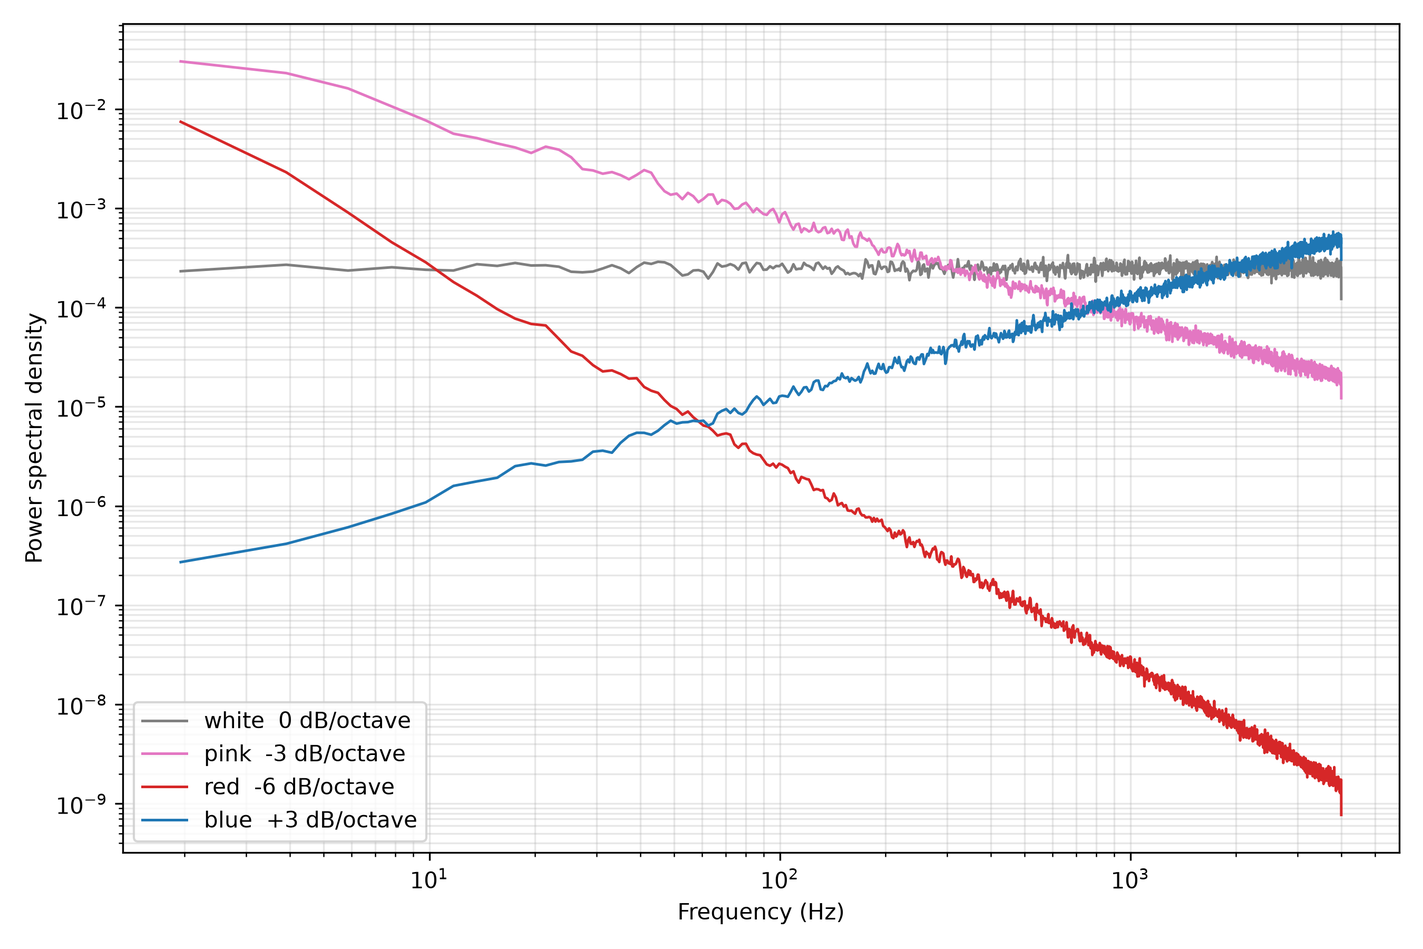
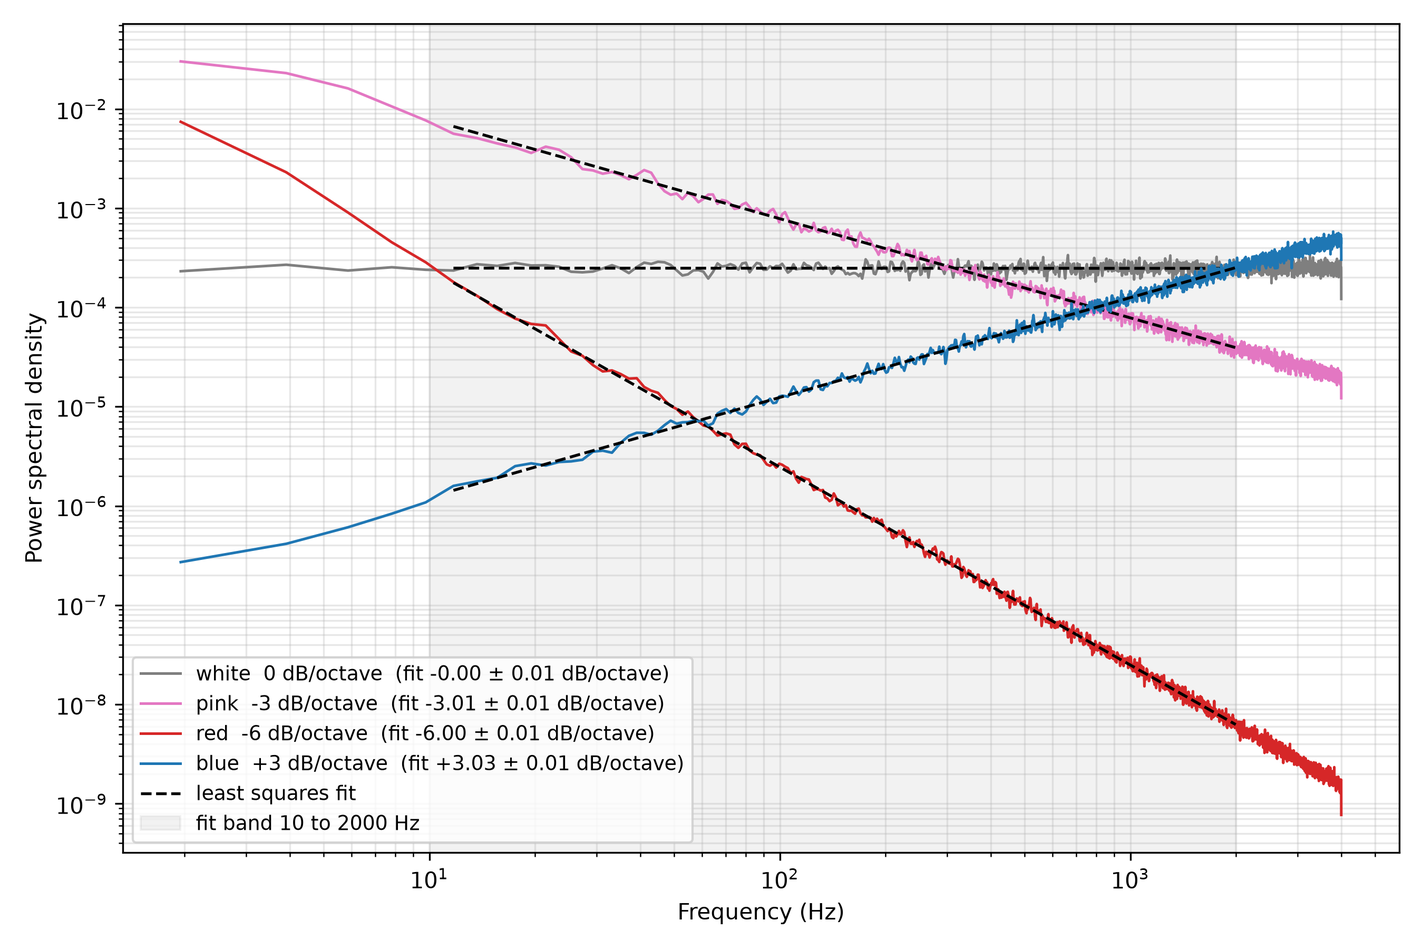
Add slope range to Table 1 and fit the density slope in Fig 2
Table 1 carried one nominal slope per color with no room for a measured
value that lands between two colors. Add a Slope range column that splits
the 3 dB/octave spacing at its midpoint, and state which of the four
values a measurement standard actually backs.

Fit every density over a frequency band on log-log axes, draw the fitted
line on Fig 2, and report the fitted slope with its standard error in the
legend. Write the fits next to the figures so the numbers can be read
back as values instead of off the picture. Label the Fig 1 panels with
the slope as well, so the waveform and the density carry the same unit.

Define dB and octave in Appendix A, and add Appendix B for the difference
between the power and the voltage form of the decibel.

Claude-Session: https://claude.ai/code/session_01Q6gebKnkh6fvcJxvUaxQ1o

diff --git a/EDA/Noise/noise-color-figures.py b/EDA/Noise/noise-color-figures.py
@@ -1,11 +1,13 @@
 """Generate the waveform, power spectral density and point pattern figures for the noise color taxonomy.
 
 Changelog:
+    0.2.0.2026.8.22 Fit the density of every color on log-log axes and report the fitted slope in dB per octave.
     0.1.0.2026.8.21 Add the point pattern figure that contrasts white and blue noise sampling.
     0.0.0.2026.8.20 Initial release.
 """
 
 import argparse
+import csv
 import enum
 import pathlib
 import sys
@@ -19,7 +21,7 @@ from scipy.spatial import distance
 from tqdm import tqdm
 
 __author__ = 'yRocket'
-__version__ = "0.1.0.2026.8.21"  # Semantic Versioning: Major.Minor.Patch.Date(YYYY.M.D)
+__version__ = "0.2.0.2026.8.22"  # Semantic Versioning: Major.Minor.Patch.Date(YYYY.M.D)
 
 matplotlib.use('Agg')
 
@@ -51,6 +53,14 @@ PLOT_COLOR: dict = {
 
 PANEL_LABEL: list = ['(a)', '(b)', '(c)', '(d)']
 
+# Decibels the density moves when the frequency doubles, for an exponent of one. It is 10 * log10(2).
+DB_PER_OCTAVE: float = 10.0 * np.log10(2.0)
+
+# Header of the file that keeps the fitted slopes, so the numbers quoted elsewhere can be recomputed.
+FIT_FIELD: list = ['color', 'nominal_exponent', 'fitted_exponent', 'nominal_slope_db_per_octave',
+                   'fitted_slope_db_per_octave', 'slope_stderr_db_per_octave', 'fit_low_hz', 'fit_high_hz',
+                   'n_fit_points']
+
 
 def generate_noise(color: NoiseColor = None, n_samples: int = None, rng: np.random.Generator = None) -> np.ndarray:
     """Shape white gaussian noise in the frequency domain so that its density follows f ** beta.
@@ -69,6 +79,61 @@ def generate_noise(color: NoiseColor = None, n_samples: int = None, rng: np.rand
     return shaped / np.std(shaped)
 
 
+def format_slope(slope_db: float = None) -> str:
+    """Write a slope in dB per octave, keeping the sign only when the slope is not flat."""
+    return '0 dB/octave' if round(slope_db) == 0 else f"{slope_db:+.0f} dB/octave"
+
+
+def fit_psd_slope(frequency: np.ndarray = None, density: np.ndarray = None, fit_low: float = None,
+                  fit_high: float = None) -> dict:
+    """Fit a straight line to the density on log-log axes and return the slope with its standard error.
+
+    A power law is a straight line once both axes are logarithmic, so the exponent is the slope of that line and
+    the slope in dB per octave is the exponent times 10 * log10(2). The fit runs over the band between fit_low and
+    fit_high because the lowest bins average too few segments and the highest bins sit on the filter edge.
+
+    Returns a dict with the fitted exponent, the slope and its standard error in dB per octave, the frequency of
+    the fitted points and the fitted density, so the caller can both quote and draw the fit.
+    """
+    band = (frequency >= fit_low) & (frequency <= fit_high)
+    if band.sum() < 3:
+        raise ValueError(f"fit band holds {band.sum()} points, which is too few to fit a line and its error: "
+                         f"{fit_low=}, {fit_high=}")
+
+    log_frequency = np.log10(frequency[band])
+    log_density = np.log10(density[band])
+    coefficient, covariance = np.polyfit(log_frequency, log_density, deg=1, cov=True)
+
+    return {
+        'exponent': float(coefficient[0]),
+        'slope_db': float(coefficient[0]) * DB_PER_OCTAVE,
+        'stderr_db': float(np.sqrt(covariance[0, 0])) * DB_PER_OCTAVE,
+        'frequency': frequency[band],
+        'density': 10.0 ** np.polyval(coefficient, log_frequency),
+        'n_points': int(band.sum()),
+    }
+
+
+def write_slope_fits(fits: dict = None, fit_low: float = None, fit_high: float = None,
+                     out_path: pathlib.Path = None) -> None:
+    """Write one row per color so that every slope drawn in the figure can be read back as a number."""
+    with out_path.open(mode='w', newline='', encoding='utf-8') as handle:
+        writer = csv.DictWriter(handle, fieldnames=FIT_FIELD)
+        writer.writeheader()
+        for color, fit in fits.items():
+            writer.writerow({
+                'color': color.value,
+                'nominal_exponent': f"{PSD_EXPONENT[color]:.1f}",
+                'fitted_exponent': f"{fit['exponent']:.4f}",
+                'nominal_slope_db_per_octave': f"{PSD_EXPONENT[color] * DB_PER_OCTAVE:.4f}",
+                'fitted_slope_db_per_octave': f"{fit['slope_db']:.4f}",
+                'slope_stderr_db_per_octave': f"{fit['stderr_db']:.4f}",
+                'fit_low_hz': f"{fit_low:.4f}",
+                'fit_high_hz': f"{fit_high:.4f}",
+                'n_fit_points': fit['n_points'],
+            })
+
+
 def plot_waveforms(signals: dict = None, sample_rate: float = None, out_path: pathlib.Path = None,
                    dpi: int = None) -> None:
     """Draw one panel per color, sharing the time and amplitude axes so the panels can be compared directly."""
@@ -78,7 +143,8 @@ def plot_waveforms(signals: dict = None, sample_rate: float = None, out_path: pa
         time = np.arange(wave.size) / sample_rate
         axis.plot(time, wave, color=PLOT_COLOR[color], linewidth=0.9)
         axis.set_ylabel('Amplitude')
-        axis.set_title(f"{label} {color.value} noise", loc='left', fontsize=10)
+        slope_text = format_slope(slope_db=PSD_EXPONENT[color] * DB_PER_OCTAVE)
+        axis.set_title(f"{label} {color.value} noise  |  {slope_text}", loc='left', fontsize=10)
         axis.grid(visible=True, alpha=0.3)
 
     axes[-1].set_xlabel('Time (s)')
@@ -87,27 +153,41 @@ def plot_waveforms(signals: dict = None, sample_rate: float = None, out_path: pa
     plt.close(fig)
 
 
-def plot_psd(signals: dict = None, sample_rate: float = None, out_path: pathlib.Path = None,
-             dpi: int = None) -> None:
-    """Draw the Welch density of every color on log-log axes, where a power law becomes a straight line."""
+def plot_psd(signals: dict = None, sample_rate: float = None, n_per_segment: int = None, fit_low: float = None,
+             fit_high: float = None, out_path: pathlib.Path = None, dpi: int = None) -> dict:
+    """Draw the Welch density of every color on log-log axes, where a power law becomes a straight line.
+
+    Every density is fitted over the band between fit_low and fit_high and the fitted line is drawn on top of it,
+    so the slope the eye reads off the curve can be compared with the slope the fit returns. The legend carries
+    the nominal slope of the color and the fitted slope with its standard error. Returns the fit of every color.
+    """
     fig, axis = plt.subplots(nrows=1, ncols=1, figsize=(9.0, 6.0))
 
-    for color, wave in signals.items():
-        frequency, density = signal.welch(wave, fs=sample_rate, nperseg=4096)
+    fits: dict = {}
+    last_index = len(signals) - 1
+    for index, (color, wave) in enumerate(signals.items()):
+        frequency, density = signal.welch(wave, fs=sample_rate, nperseg=n_per_segment)
         keep = frequency > 0
-        slope_db = 10.0 * np.log10(2.0) * PSD_EXPONENT[color]
-        sign = '' if round(slope_db) == 0 else f"{slope_db:+.0f}"
-        slope_text = '0 dB/octave' if round(slope_db) == 0 else f"{sign} dB/octave"
-        axis.loglog(frequency[keep], density[keep], color=PLOT_COLOR[color], linewidth=1.2,
-                    label=f"{color.value}  {slope_text}")
+        fits[color] = fit_psd_slope(frequency=frequency[keep], density=density[keep], fit_low=fit_low,
+                                    fit_high=fit_high)
 
+        nominal_text = format_slope(slope_db=PSD_EXPONENT[color] * DB_PER_OCTAVE)
+        fitted_text = f"fit {fits[color]['slope_db']:+.2f} ± {fits[color]['stderr_db']:.2f} dB/octave"
+        axis.loglog(frequency[keep], density[keep], color=PLOT_COLOR[color], linewidth=1.2,
+                    label=f"{color.value}  {nominal_text}  ({fitted_text})")
+        axis.loglog(fits[color]['frequency'], fits[color]['density'], color='black', linestyle='--',
+                    linewidth=1.3, label='least squares fit' if index == last_index else '_nolegend_')
+
+    axis.axvspan(fit_low, fit_high, color='black', alpha=0.05, label=f"fit band {fit_low:g} to {fit_high:g} Hz")
     axis.set_xlabel('Frequency (Hz)')
     axis.set_ylabel('Power spectral density')
     axis.grid(visible=True, which='both', alpha=0.3)
-    axis.legend(loc='lower left')
+    axis.legend(loc='lower left', fontsize=9)
     fig.tight_layout()
     fig.savefig(out_path, dpi=dpi)
     plt.close(fig)
+
+    return fits
 
 
 def generate_uniform_points(n_points: int = None, rng: np.random.Generator = None) -> np.ndarray:
@@ -152,13 +232,17 @@ def plot_point_patterns(patterns: dict = None, out_path: pathlib.Path = None, dp
 
 
 def build_figures(out_folder: pathlib.Path = None, n_samples: int = None, n_wave_samples: int = None,
-                  sample_rate: float = None, n_points: int = None, n_candidates: int = None,
+                  sample_rate: float = None, n_per_segment: int = None, fit_low: float = None,
+                  fit_high: float = None, n_points: int = None, n_candidates: int = None,
                   seed: int = None, dpi: int = None) -> None:
     """Generate the signals for both figures and write the figures into the output folder.
 
     The two figures need different signal lengths. The density needs a long signal so that Welch can average many
     segments, while the waveform needs a short one. Red noise holds most of its energy at the lowest frequency the
     signal reaches, so a short window cut out of a long signal is a nearly flat line and shows no character.
+
+    The fitted slopes are written next to the figures so that the numbers drawn in the density figure can be read
+    back as values instead of being copied off the picture.
     """
     rng = np.random.default_rng(seed)
 
@@ -176,8 +260,10 @@ def build_figures(out_folder: pathlib.Path = None, n_samples: int = None, n_wave
     }
 
     plot_waveforms(signals=wave_signals, sample_rate=sample_rate, out_path=out_folder / 'fig1_waveform.png', dpi=dpi)
-    plot_psd(signals=psd_signals, sample_rate=sample_rate, out_path=out_folder / 'fig2_psd.png', dpi=dpi)
+    fits = plot_psd(signals=psd_signals, sample_rate=sample_rate, n_per_segment=n_per_segment, fit_low=fit_low,
+                    fit_high=fit_high, out_path=out_folder / 'fig2_psd.png', dpi=dpi)
     plot_point_patterns(patterns=patterns, out_path=out_folder / 'fig3_point_pattern.png', dpi=dpi)
+    write_slope_fits(fits=fits, fit_low=fit_low, fit_high=fit_high, out_path=out_folder / 'fig2_psd_slope_fit.csv')
 
 
 def parse_args() -> argparse.Namespace:
@@ -191,6 +277,13 @@ def parse_args() -> argparse.Namespace:
                         help="number of samples in the signal the waveform figure draws")
     parser.add_argument('--sample-rate', type=float, default=8000.0,
                         help="sample rate in Hz used for the time and frequency axes")
+    parser.add_argument('--n-per-segment', type=int, default=4096,
+                        help="samples per Welch segment; longer resolves low frequencies, shorter averages more")
+    parser.add_argument('--fit-low-hz', type=float, default=10.0,
+                        help="lower edge of the band the density is fitted over; below it Welch averages too few "
+                             "segments")
+    parser.add_argument('--fit-high-hz', type=float, default=2000.0,
+                        help="upper edge of the band the density is fitted over; keep it below the Nyquist edge")
     parser.add_argument('--n-points', type=int, default=800,
                         help="number of points drawn in each panel of the point pattern figure")
     parser.add_argument('--n-candidates', type=int, default=12,
@@ -212,10 +305,19 @@ def parse_args() -> argparse.Namespace:
     out_folder.mkdir(parents=True, exist_ok=True)
     args.out_folder = out_folder
 
-    if args.n_samples < 4096:
-        parser.error(f"--n-samples must be at least 4096 to fill one Welch segment: {args.n_samples}")
     if args.sample_rate <= 0.0:
         parser.error(f"--sample-rate must be positive: {args.sample_rate}")
+    if args.n_per_segment < 256:
+        parser.error(f"--n-per-segment must be at least 256 to resolve a slope: {args.n_per_segment}")
+    if args.n_samples < args.n_per_segment:
+        parser.error(f"--n-samples must fill at least one Welch segment: {args.n_samples} < {args.n_per_segment}")
+    if args.fit_low_hz <= 0.0:
+        parser.error(f"--fit-low-hz must be positive, since a log axis has no zero: {args.fit_low_hz}")
+    if args.fit_high_hz <= args.fit_low_hz:
+        parser.error(f"--fit-high-hz must be above --fit-low-hz: {args.fit_high_hz} <= {args.fit_low_hz}")
+    if args.fit_high_hz > args.sample_rate / 2.0:
+        parser.error(f"--fit-high-hz must stay at or below the Nyquist frequency {args.sample_rate / 2.0}: "
+                     f"{args.fit_high_hz}")
     if args.dpi <= 0:
         parser.error(f"--dpi must be positive: {args.dpi}")
     if args.n_wave_samples < 16:
@@ -231,5 +333,6 @@ def parse_args() -> argparse.Namespace:
 if __name__ == '__main__':
     cli = parse_args()
     build_figures(out_folder=cli.out_folder, n_samples=cli.n_samples, n_wave_samples=cli.n_wave_samples,
-                  sample_rate=cli.sample_rate, n_points=cli.n_points, n_candidates=cli.n_candidates,
+                  sample_rate=cli.sample_rate, n_per_segment=cli.n_per_segment, fit_low=cli.fit_low_hz,
+                  fit_high=cli.fit_high_hz, n_points=cli.n_points, n_candidates=cli.n_candidates,
                   seed=cli.seed, dpi=cli.dpi)

diff --git a/EDA/Noise/noise-color-taxonomy.md b/EDA/Noise/noise-color-taxonomy.md
@@ -1,5 +1,5 @@
 # Noise Color Taxonomy
-Rev. 2 | Created: 2026-08-20 | Updated: 2026-08-21 15:07 CDT
+Rev. 3 | Created: 2026-08-20 | Updated: 2026-08-22 04:52 UTC
 
 노이즈에 붙은 색 이름은 주파수 대역에 에너지가 어떻게 나뉘어 있는지를 가리킨다. 저주파에 에너지가 몰릴수록 붉은 계열로 부르고, 고주파에 몰릴수록 푸른 계열로 부른다. 이 문서는 네 가지 색을 파형, 기울기, 청각, 공간 패턴, 활용의 순서로 정리한다.
 
@@ -11,7 +11,7 @@ Rev. 2 | Created: 2026-08-20 | Updated: 2026-08-21 15:07 CDT
 
 Fig 1. Waveform of each noise color
 
-Red 는 값이 천천히 오르내려 선이 매끄럽고, Blue 는 이웃한 표본끼리 값이 자주 뒤집혀 선이 가장 촘촘하다. White 는 그 둘 사이에 있고, Pink 는 White 같은 잔 움직임 위에 Red 같은 느린 흔들림이 얹혀 있다. 네 신호는 모두 표준편차를 1 로 맞추었으므로, 다른 것은 세로 폭이 아니라 값이 변하는 빠르기이다.
+Red 는 값이 천천히 오르내려 선이 매끄럽고, Blue 는 이웃한 표본끼리 값이 자주 뒤집혀 선이 가장 촘촘하다. White 는 그 둘 사이에 있고, Pink 는 White 같은 잔 움직임 위에 Red 같은 느린 흔들림이 얹혀 있다. 네 신호는 모두 표준편차를 1 로 맞추었으므로, 다른 것은 세로 폭이 아니라 값이 변하는 빠르기이다. 각 panel 제목에 함께 적은 기울기가 그 빠르기를 한 수로 줄인 값이며, 그 수가 어디서 나오는지는 2 절에서 다룬다.
 
 ## 2. Spectral Slope
 
@@ -19,26 +19,30 @@ Power spectral density 는 신호가 가진 power 를 주파수 축에 나누어
 
 1 절의 네 신호는 표준편차가 서로 같으므로 이 면적의 총합도 서로 같다. 그러므로 색이 다르다는 것은 크기가 다르다는 뜻이 아니라, 같은 크기의 면적을 주파수 축 위에 서로 다르게 나누어 가졌다는 뜻이다.
 
-색을 가르는 기준은 그 나누어진 모양을 한 수로 줄인 값, 곧 octave 마다 에너지가 몇 dB 변하는지이다. Octave 는 주파수가 두 배가 되는 구간이므로, 이 기울기 하나가 전 대역의 에너지 분포를 정한다.
+색을 가르는 기준은 그 나누어진 모양을 한 수로 줄인 값, 곧 octave 마다 에너지가 몇 dB 변하는지이다. Octave 가 주파수 축을 일정한 배수로 훑으므로, 이 기울기 하나가 전 대역의 에너지 분포를 정한다. dB 와 octave 의 정의는 [Appendix A](#appendix-a-terminology) 에 있고, dB 를 power 와 전압에 각각 적용하는 방법은 [Appendix B](#appendix-b-decibel-and-ratio) 에서 다룬다.
 
 Table 1. Spectral slope by noise color
 
-| Color | Slope | Power spectral density | Energy distribution |
-|-------|-------|------------------------|---------------------|
-| White | 0 dB/octave | `1/f^0` | 모든 대역이 같은 에너지를 갖는다 |
-| Pink | -3 dB/octave | `1/f` | 주파수에 반비례해 줄어든다 |
-| Red | -6 dB/octave | `1/f^2` | 고주파가 급격히 줄어든다 |
-| Blue | +3 dB/octave | `f` | 주파수에 비례해 늘어난다 |
+| Color | Slope | Slope range | Power spectral density | Energy distribution |
+|-------|-------|-------------|------------------------|---------------------|
+| White | 0 dB/octave | -1.5 ~ +1.5 dB/octave | `1/f^0` | 모든 대역이 같은 에너지를 갖는다 |
+| Pink | -3 dB/octave | -4.5 ~ -1.5 dB/octave | `1/f` | 주파수에 반비례해 줄어든다 |
+| Red | -6 dB/octave | -7.5 ~ -4.5 dB/octave | `1/f^2` | 고주파가 급격히 줄어든다 |
+| Blue | +3 dB/octave | +1.5 ~ +4.5 dB/octave | `f` | 주파수에 비례해 늘어난다 |
 
 Red 는 brown noise 라고도 부른다. 기울기가 -6, -3, 0, +3 으로 이어지므로 네 색은 하나의 축 위에 놓이고, White 의 0 이 나머지 셋을 재는 기준이 된다.
 
+Slope 열은 색마다 붙은 이름값이고, Slope range 열은 잰 기울기가 얼마나 벗어나도 그 색으로 부르는지를 적은 것이다. 네 색이 3 dB/octave 간격으로 놓여 있으므로 이웃한 두 색의 한가운데인 ±1.5 dB/octave 까지가 한 색의 몫이 된다. 이 범위는 규격이 정한 허용치가 아니라 간격을 반으로 나눈 구획이다. 실제로 잰 신호의 기울기는 네 값 사이 아무 곳에나 놓이므로, 범위가 없으면 -4 dB/octave 인 신호를 어느 색으로 부를지 정할 수 없다.
+
+네 값이 모두 같은 무게를 갖지는 않는다. Pink 는 음향 기기 측정에 쓰는 시험 신호로 IEC 60268-1 에 -3 dB/octave 로 올라 있다 [1](#ref-1). White, Pink, Blue 라는 이름 자체는 Federal Standard 1037C 의 통신 용어집에 항목으로 실려 있으나, 그 용어집은 이름을 풀이할 뿐 기울기 값을 정하지는 않는다 [2](#ref-2). Red 의 -6 은 Brownian motion 의 스펙트럼에서 나온 관례일 뿐 그 값을 정하는 규격 문서가 없다. 거듭제곱 잡음을 규격으로 다루는 IEEE Std 1139 는 같은 기울기들을 색 이름 대신 white, flicker, random walk 로 부른다 [3](#ref-3). 그러므로 네 값은 널리 쓰이는 관례이고, 그중 Pink 만 측정 규격이 값까지 정해 둔다.
+
 ![Fig 2](noise-color-taxonomy_fig/fig2_psd.png)
 
-Fig 2. Power spectral density of each noise color
+Fig 2. Power spectral density and fitted slope of each noise color
 
-가로와 세로가 모두 로그 눈금이므로 주파수의 거듭제곱은 직선으로 나타나고, 그 직선의 기울기가 Table 1 의 값이다. White 만 수평이고 Pink 와 Red 는 내려가며 Blue 는 올라간다. 1 절에서 Red 의 선이 매끄럽고 Blue 의 선이 촘촘했던 것이 여기서는 두 곡선이 서로 반대 방향으로 기우는 것으로 나타난다.
+가로와 세로가 모두 로그 눈금이므로 주파수의 거듭제곱은 직선으로 나타나고, 그 직선의 기울기가 Table 1 의 값이다. 회색 띠는 기울기를 잰 구간이고, 검은 점선은 그 구간의 점에 최소제곱으로 맞춘 직선이다. 범례에는 색마다 Table 1 의 값과 잰 값을 나란히 적었으며, 네 색 모두 잰 값이 Table 1 의 값에서 0.02 dB/octave 안에 든다. White 만 수평이고 Pink 와 Red 는 내려가며 Blue 는 올라간다. 1 절에서 Red 의 선이 매끄럽고 Blue 의 선이 촘촘했던 것이 여기서는 두 곡선이 서로 반대 방향으로 기우는 것으로 나타난다.
 
-가장 낮은 몇 Hz 에서 Pink 와 Blue 의 곡선이 수평 쪽으로 눕는데, 이는 그 구간에서 평균할 표본이 적어 추정이 거칠어진 것이지 기울기가 달라진 것이 아니다.
+가장 낮은 몇 Hz 에서 Pink 와 Blue 의 곡선이 수평 쪽으로 눕는데, 이는 그 구간에서 평균할 표본이 적어 추정이 거칠어진 것이지 기울기가 달라진 것이 아니다. 잰 구간이 그 아래를 비우고 시작하는 이유도 여기에 있다.
 
 ## 3. Auditory Character
 
@@ -79,10 +83,43 @@ Table 2. Application by noise color
 
 앞의 셋은 소리로 쓰이고 Blue 만 점의 배치로 쓰인다. Blue 를 쓰는 세 분야가 모두 표본이나 점을 고르게 흩어 놓아야 하는 일이기 때문이다.
 
+## References
+
+<a id="ref-1"></a>[1] International Electrotechnical Commission. [IEC 60268-1:1985, Sound system equipment - Part 1: General](https://webstore.iec.ch/en/publication/1204). 1985.
+
+<a id="ref-2"></a>[2] General Services Administration. [Federal Standard 1037C, Telecommunications: Glossary of Telecommunication Terms](https://its.ntia.gov/about/resources/federal-standard-1037c/). 1996.
+
+<a id="ref-3"></a>[3] Institute of Electrical and Electronics Engineers. [IEEE Std 1139-2008, IEEE Standard Definitions of Physical Quantities for Fundamental Frequency and Time Metrology - Random Instabilities](https://doi.org/10.1109/IEEESTD.2008.4797525). 2008.
+
+<a id="ref-4"></a>[4] International Electrotechnical Commission. [IEC 61260-1:2014, Electroacoustics - Octave-band and fractional-octave-band filters - Part 1: Specifications](https://webstore.iec.ch/en/publication/5063). 2014.
+
 ---
 
 ## Appendix A. Terminology
 
+- **Decibel (dB)** 은 두 양의 비를 로그로 옮긴 값이다. Power 를 기준으로 하면 $10 \log_{10}(P_2 / P_1)$ 이며, 전압에 쓸 때 달라지는 점은 [Appendix B](#appendix-b-decibel-and-ratio) 에 있다.
 - **Dithering** 은 색이나 밝기의 단계를 줄일 때 생기는 띠를 없애려고 의도적으로 노이즈를 더하는 기법이다.
 - **Halftoning** 은 농담을 점의 밀도로 바꾸어 두 색만으로 중간 밝기를 표현하는 기법이다.
+- **Octave** 는 주파수가 두 배가 되는 구간이다. 20 Hz 에서 40 Hz 까지와 1 kHz 에서 2 kHz 까지가 모두 한 octave 이며, 이 구간을 나누는 filter 의 규격은 IEC 61260-1 에 있다 [4](#ref-4).
 - **Tinnitus** 는 외부에 소리가 없는데도 귀에서 소리가 들리는 증상이다.
+
+## Appendix B. Decibel and Ratio
+
+dB 는 그 자체로 크기를 갖는 단위가 아니라 두 양의 비를 로그로 옮긴 값이다. 그러므로 무엇의 비인지에 따라 로그 앞에 붙는 수가 달라진다.
+
+Power 를 기준으로 잴 때는 $10 \log_{10}(P_2 / P_1)$ 을 쓴다. +10 dB 는 power 가 10 배, +20 dB 는 100 배가 되었다는 뜻이다.
+
+전압이나 음압처럼 제곱해야 power 가 되는 양은 $20 \log_{10}(V_2 / V_1)$ 을 쓴다. 앞의 수가 20 인 것은 $P \propto V^2$ 이어서 $10 \log_{10}(V^2) = 20 \log_{10}(V)$ 이기 때문이다. 그러므로 10 과 20 은 서로 다른 두 종류의 dB 가 아니라 같은 dB 를 서로 다른 양에 적용한 것이며, 같은 물리적 변화라면 두 식은 같은 값을 준다.
+
+이 때문에 전압에서는 +10 dB 가 10 배가 아니라 약 3.16 배가 된다. 배수 $x$ 는 $10 = 20 \log_{10}(x)$ 를 풀어서 얻는다. 양변을 20 으로 나누면 $\log_{10}(x) = 0.5$ 이고, 이를 지수로 옮기면 $x = 10^{0.5} = \sqrt{10} \approx 3.1623$ 이다. 곧 3.16 은 10 의 제곱근이다.
+
+Table 3. Decibel and ratio
+
+| Decibel | Power ratio | Voltage ratio |
+|---------|-------------|---------------|
+| +3 dB | 2.00 | 1.41 |
+| +6 dB | 3.98 | 2.00 |
+| +10 dB | 10.00 | 3.16 |
+| +20 dB | 100.00 | 10.00 |
+
+이 문서의 기울기는 power spectral density 를 dB 로 옮긴 값이므로 $10 \log_{10}$ 을 쓴 쪽이다. Pink 의 -3 dB/octave 는 주파수가 두 배가 될 때 밀도가 절반이 된다는 뜻이고, 그 사이 octave 의 폭도 두 배가 되므로 한 octave 가 담는 power 는 그대로 남는다.
